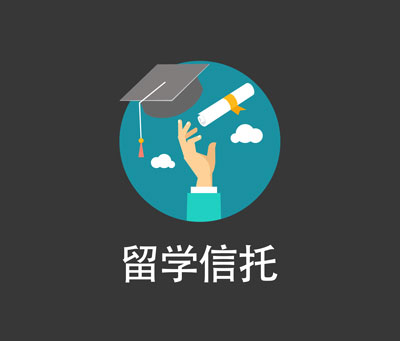
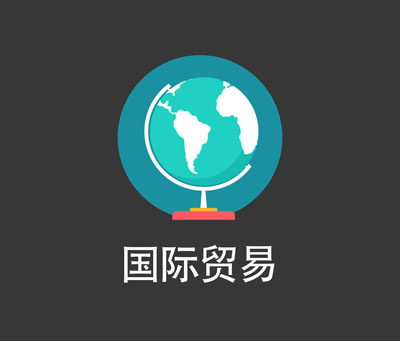
Routine backup 8 Nov

diff --git a/css/hexagon.css b/css/hexagon.css
@@ -1,1 +1,1 @@
-.hexagon{float:left;overflow:hidden;visibility:hidden;width:400px;height:200px;transform:rotate(120deg);margin:0 -138px -98px -85px}.outer{overflow:hidden;width:100%;height:100%;transform:rotate(-60deg)}.inner{overflow:hidden;position:relative;visibility:visible;width:100%;height:100%;transform:rotate(-60deg)}.textWrapper{position:absolute;top:0;opacity:0;left:80px;width:235px;height:200px;z-index:500;background:rgba(255,255,255,1);transition:all .2s}.text{position:absolute;top:60px;left:50px;width:150px;height:auto;z-index:500}.text2{position:absolute;top:48px;left:50px;width:150px;height:auto;z-index:500}.inner:hover .textWrapper{opacity:1}.even{margin-top:102px}.fixhexagon{margin-left:92px}.row{clear:left}.hexagon-button{margin-top:140px}.heritage{background:url(../images/icon_heritage.jpg) 50% 50% no-repeat;background-size:contain}.property{background:url(../images/icon_property.jpg) 50% 50% no-repeat;background-size:contain}.family{background:url(../images/icon_family.jpg) 50% 50% no-repeat;background-size:contain}.study{background:url(../images/icon_study.jpg) 50% 50% no-repeat;background-size:contain}.forex{background:url(../images/icon_forex.jpg) 50% 50% no-repeat;background-size:contain}.money{background:url(../images/icon_money.jpg) 50% 50% no-repeat;background-size:contain}.immi{background:url(../images/icon_immi.jpg) 50% 50% no-repeat;background-size:contain}.tax{background:url(../images/icon_tax.jpg) 50% 50% no-repeat;background-size:contain}.george{background:url(../images/george_gao.jpg) 50% 50% no-repeat;background-size:60% 160%;background-position:50% 25%}.gracie{background:url(../images/gracie.png) 50% 50% no-repeat;background-size:78% 160%;background-position:55% 25%}.wei{background:url(../images/wei.jpg) 50% 50% no-repeat;background-size:120% 180%;background-position:70% 80%}.su{background:url(../images/su.jpeg) 50% 50% no-repeat;background-size:150% 165%;background-position:50% 70%}.bridy{background:url(../images/icon_sankofa.jpg) 50% 50% no-repeat;background-size:contain}.vincent{background:url(../images/vincent.jpg) 50% 50% no-repeat;background-size:58% 155%;background-position:52% 23%}.wenyong{background:url(../images/wenyong.jpg) 50% 50% no-repeat;background-size:contain}.sankofa-center{margin-top:165px;margin-bottom:440px;opacity:.9}
+.hexagon{float:left;overflow:hidden;visibility:hidden;width:400px;height:200px;transform:rotate(120deg);margin:0 -138px -98px -85px}.outer{overflow:hidden;width:100%;height:100%;transform:rotate(-60deg)}.inner{overflow:hidden;position:relative;visibility:visible;width:100%;height:100%;transform:rotate(-60deg)}.textWrapper{position:absolute;top:0;opacity:0;left:80px;width:235px;height:200px;z-index:500;background:rgba(255,255,255,1);transition:all .2s}.text{position:absolute;top:60px;left:50px;width:150px;height:auto;z-index:500}.text2{position:absolute;top:48px;left:50px;width:150px;height:auto;z-index:500}.inner:hover .textWrapper{opacity:1}.even{margin-top:102px}.fixhexagon{margin-left:92px}.row{clear:left}.hexagon-button{margin-top:140px}.heritage{background:url(../images/icon_heritage.jpg) 50% 50% no-repeat;background-size:contain}.property{background:url(../images/icon_property.jpg) 50% 50% no-repeat;background-size:contain}.family{background:url(../images/icon_family.jpg) 50% 50% no-repeat;background-size:contain}.study{background:url(../images/icon_study.jpg) 50% 50% no-repeat;background-size:contain}.forex{background:url(../images/icon_forex.jpg) 50% 50% no-repeat;background-size:contain}.money{background:url(../images/icon_money.jpg) 50% 50% no-repeat;background-size:contain}.immi{background:url(../images/icon_immi.jpg) 50% 50% no-repeat;background-size:contain}.tax{background:url(../images/icon_tax.jpg) 50% 50% no-repeat;background-size:contain}.trade{background:url(../images/icon_trade.jpg) 50% 50% no-repeat;background-size:contain}.george{background:url(../images/george_gao.jpg) 50% 50% no-repeat;background-size:60% 160%;background-position:50% 25%}.gracie{background:url(../images/gracie.png) 50% 50% no-repeat;background-size:78% 160%;background-position:55% 25%}.wei{background:url(../images/wei.jpg) 50% 50% no-repeat;background-size:120% 180%;background-position:70% 80%}.su{background:url(../images/su.jpeg) 50% 50% no-repeat;background-size:150% 165%;background-position:50% 70%}.bill{background:url(../images/bill.jpg) 50% 50% no-repeat;background-size:68% 155%;background-position:42% 23%}.vincent{background:url(../images/vincent.jpg) 50% 50% no-repeat;background-size:58% 155%;background-position:52% 13%}.wenyong{background:url(../images/wenyong.jpg) 50% 50% no-repeat;background-size:60% 125%;background-position:50% 30%}.sankofa-center{margin-top:165px;margin-bottom:440px;opacity:.9}

diff --git a/js/index.js b/js/index.js
@@ -26,6 +26,30 @@ function initialize(){var a={center:myCenter,zoom:16,scrollwheel:!1,mapTypeId:go
         }
      });
      
+     $('#bill-box').qtip({
+         content: {
+             title: 'SMFOs资深房产&PE投资 Bill Zhang',
+             text: '悉尼新南威尔士大学荣誉双学士、本土私校背景，飞思博客创始人、悉尼E时代联合创始人、持牌房地产代理经纪人、创新社核心成员；擅长投资报告与分析，以多年的经验帮助中产阶级合理运用投资组合实现财富增长与自由'
+         },
+         style: {
+            classes: 'qtip-tipsy'
+        },
+         position: {
+             target: 'mouse', // Track the mouse as the positioning target
+             adjust: { x: 5, y: 5 } // Offset it slightly from under the mouse
+         },
+        show: {
+            effect: function() {
+                $(this).fadeTo(250, 1);
+            }
+        },
+        hide: {
+            effect: function() {
+                $(this).fadeTo(250, 0);
+            }
+        }
+     });
+     
      $('#wenyong-box').qtip({
          content: {
              title: 'SMFOs教育专家 黄文勇',

diff --git a/wp-content/themes/sankofafamily/class-topic.php b/wp-content/themes/sankofafamily/class-topic.php
@@ -1,6 +1,6 @@
 <?php
 /*
-Template Name: sankofa-class-view
+Template Name: sankofa-class-topic
 */
 $current_user = wp_get_current_user();
 $r = 0;
@@ -43,7 +43,7 @@ if ( array_shift( $current_user->roles ) == "administrator" ):
   <div class="w3-display-container w3-wide sankofa-product-preview w3-opacity2">
     <img src="http://www.smfos.com.au/images/sydney1.jpg">
     <div class="w3-display-bottomleft w3-text-white w3-container w3-padding-32 w3-hide-small">
-        <span class="w3-black w3-padding-large w3-animate-bottom w3-xlarge w3-text-light-grey">微信课堂登记数据</span>
+        <span class="w3-black w3-padding-large w3-animate-bottom w3-xlarge w3-text-light-grey">微信课堂调查数据</span>
     </div>
   </div>
 
@@ -54,6 +54,8 @@ $servername = "localhost";
 $username = "root";
 $password = "Sankofa809";
 $dbname = "sankofa-family";
+$tick = "✓";
+$cross = "x";
 
 // Create connection
 $conn = new mysqli($servername, $username, $password, $dbname);
@@ -66,19 +68,54 @@ $sql = "SELECT * FROM wechat";
 $result = $conn->query($sql);
 
 if ($result->num_rows > 0) {
-    echo "<table class='w3-table'><thead><tr class='w3-black w3-text-white'><th>客户姓名</th><th>性别</th><th>电话号码</th><th>微信</th><th>电子邮件</th><th>职业</th></tr></thead><tbody>";
+    echo "<table class='w3-table'><thead><tr class='w3-black w3-text-white'><th>客户姓名</th><th>电话号码</th><th>家族信托</th><th>移民</th><th>留学</th><th>海外置业</th><th>换汇</th><th>基金投资</th><th>合作伙伴</th><th>其他</th></tr></thead><tbody>";
     // output data of each row
     while($row = $result->fetch_assoc()) {
         $r = $r + 1;
-        if( $row["gender"] == "1" ) {
-            $gender_type = "男";
+        if( $row["family"] == "1" ) {
+            $family = $tick;
         } else {
-            $gender_type = "女";
+            $family = $cross;
+        }
+        if( $row["immi"] == "1" ) {
+            $immi = $tick;
+        } else {
+            $immi = $cross;
+        }
+        if( $row["study"] == "1" ) {
+            $study = $tick;
+        } else {
+            $study = $cross;
+        }
+        if( $row["property"] == "1" ) {
+            $property = $tick;
+        } else {
+            $property = $cross;
+        }
+        if( $row["forex"] == "1" ) {
+            $forex = $tick;
+        } else {
+            $forex = $cross;
+        }
+        if( $row["trustfund"] == "1" ) {
+            $trustfund = $tick;
+        } else {
+            $trustfund = $cross;
+        }
+        if( $row["cooperate"] == "1" ) {
+            $coop = $tick;
+        } else {
+            $coop = $cross;
+        }
+        if( $row["others"] == "1" ) {
+            $others = $tick;
+        } else {
+            $others = $cross;
         }
         if($r % 2 == 1) {
-            echo "<tr class='w3-white w3-hover-dark-grey w3-hover-text-white'><td>". $row["clientname"]. "</td><td>" . $gender_type . "</td><td>". $row["mobile"]. "</td><td>" . $row["wechatid"] . "</td><td>" . $row["email"] . "</td><td>" . $row["job"] . "</td></tr>";
+            echo "<tr class='w3-white w3-hover-dark-grey w3-hover-text-white'><td>". $row["clientname"]. "</td><td>". $row["mobile"]. "</td><td>" . $family . "</td><td>" . $immi . "</td><td>" . $study . "</td><td>" . $property . "</td><td>" . $forex . "</td><td>" . $trustfund . "</td><td>" . $coop . "</td><td>" . $others . "</td></tr>";
         } else {
-            echo "<tr class='w3-light-grey w3-hover-dark-grey w3-hover-text-white'><td>". $row["clientname"]. "</td><td>" . $gender_type . "</td><td>". $row["mobile"]. "</td><td>" . $row["wechatid"] . "</td><td>" . $row["email"] . "</td><td>" . $row["job"] . "</td></tr>";
+            echo "<tr class='w3-light-grey w3-hover-dark-grey w3-hover-text-white'><td>". $row["clientname"]. "</td><td>". $row["mobile"]. "</td><td>" . $family . "</td><td>" . $immi . "</td><td>" . $study . "</td><td>" . $property . "</td><td>" . $forex . "</td><td>" . $trustfund . "</td><td>" . $coop . "</td><td>" . $others . "</td></tr>";
         }
     }
     echo "</tbody></table>";

diff --git a/wp-content/themes/sankofafamily/home.php b/wp-content/themes/sankofafamily/home.php
@@ -74,14 +74,14 @@ $current_user = wp_get_current_user();
 <!-- Container -->
 <div class="w3-content w3-container w3-padding-180 sankofa-team-icon">
     <div class="row w3-center">
-        <a href="index.html#our-team" id="wei-box"><div class="hexagon fixhexagon">
+        <a href="/#our-team" id="wei-box"><div class="hexagon fixhexagon">
 				<div class="outer">
 					<div class="inner wei">
 					</div>
 				</div>
             </div></a>
         
-        <a href="index.html#our-team" id="gracie-box"><div class="hexagon fixhexagon">
+        <a href="/#our-team" id="gracie-box"><div class="hexagon fixhexagon">
 				<div class="outer">
 					<div class="inner gracie">
 					</div>
@@ -90,40 +90,40 @@ $current_user = wp_get_current_user();
     </div>
   <div class="row w3-center">
 			
-			<a href="index.html#our-team" id="vincent-box"><div class="hexagon">
+			<a href="/#our-team" id="vincent-box"><div class="hexagon">
 				<div class="outer">
 					<div class="inner vincent">
 					</div>
 				</div>
                 </div></a>
 			
-			<a href="index.html#our-team" id="su-box"><div class="hexagon even">
+			<a href="/#our-team" id="su-box"><div class="hexagon even">
 				<div class="outer">
 					<div class="inner su">
 					</div>
 				</div>
                 </div></a>
 			
-			<a href="index.html#our-team" id="george-box"><div class="hexagon">
+			<a href="/#our-team" id="george-box"><div class="hexagon">
 				<div class="outer">
 					<div class="inner george">
 					</div>
 				</div>
 			</div></a>
     
-    <a href="index.html#our-team" id="wenyong-box"><div class="hexagon even">
+    <a href="/#our-team" id="bill-box"><div class="hexagon even">
+				<div class="outer">
+					<div class="inner bill">
+					</div>
+				</div>
+        </div></a>
+    
+    <a href="/#our-team" id="wenyong-box"><div class="hexagon">
 				<div class="outer">
 					<div class="inner wenyong">
 					</div>
 				</div>
         </div></a>
-    
-    <div class="hexagon">
-				<div class="outer">
-					<div class="inner bridy">
-					</div>
-				</div>
-        </div>
 			
         </div>
 </div>

diff --git a/insert.php b/insert.php
@@ -26,6 +26,7 @@ if ($error) {
     $client_name = mysqli_real_escape_string($link, $_POST['clientname']);
     $phone_no = mysqli_real_escape_string($link, $_POST['mobile']);
     $email_address = mysqli_real_escape_string($link, $_POST['email']);
+    $wechatid = mysqli_real_escape_string($link, $_POST['wechatid']);
     $gender_type = mysqli_real_escape_string($link, $_POST['gender']);
     $job_title = mysqli_real_escape_string($link, $_POST['job']);
     
@@ -71,7 +72,7 @@ if ($error) {
     }
     
     // attempt insert query execution
-    $sql = "INSERT INTO wechat (clientname, mobile, email, job, gender, family, immi, study, property, forex, trustfund, cooperate, others) VALUES ('$client_name', '$phone_no', '$email_address', '$job_title', '$gender_type', '$family', '$immi', '$study', '$property', '$forex', '$trustfund', '$coop', '$others')";
+    $sql = "INSERT INTO wechat (clientname, wechatid, mobile, email, job, gender, family, immi, study, property, forex, trustfund, cooperate, others) VALUES ('$client_name', '$wechatid', '$phone_no', '$email_address', '$job_title', '$gender_type', '$family', '$immi', '$study', '$property', '$forex', '$trustfund', '$coop', '$others')";
     if(mysqli_query($link, $sql)){
         header( 'Location: /class-success' ) ;
     } else{

diff --git a/wp-content/themes/sankofafamily/services.php b/wp-content/themes/sankofafamily/services.php
@@ -136,6 +136,19 @@ $current_user = wp_get_current_user();
 			</div>
     
 		</div>
+<div class="row w3-center">
+    <div class="hexagon fixhexagon">
+				<div class="outer">
+					<div class="inner trade">
+						<div class="textWrapper">
+							<div class="text">提供客户合法换汇通道，设计换汇方案</div>
+                            <a class="w3-btn w3-hover-dark-grey w3-transparent w3-text-dark-grey w3-medium hexagon-button" href="http://www.smfos.com.au/sankofa-trade/">详细介绍</a>
+						</div>
+					</div>
+				</div>
+			</div>
+</div>
+    
     </div>
     </div>
     

diff --git a/wp-content/themes/sankofafamily/class.php b/wp-content/themes/sankofafamily/class.php
@@ -58,6 +58,8 @@ $current_user = wp_get_current_user();
 <input class="w3-input" type="text" name="email">
 <?php endif; ?>
     <label class="w3-label w3-text-dark-grey">电子邮件 EMAIL (必填)</label></p>
+    <p><input class="w3-input" type="text" name="wechatid">
+    <label class="w3-label w3-text-dark-grey">微信号 (或昵称) WECHAT ID</label></p>
   <p><input class="w3-input" type="text" name="job">
     <label class="w3-label w3-text-dark-grey">职业 OCCUPATION</label></p>
 <p><input class="w3-radio" type="radio" name="gender" value="1" checked>
